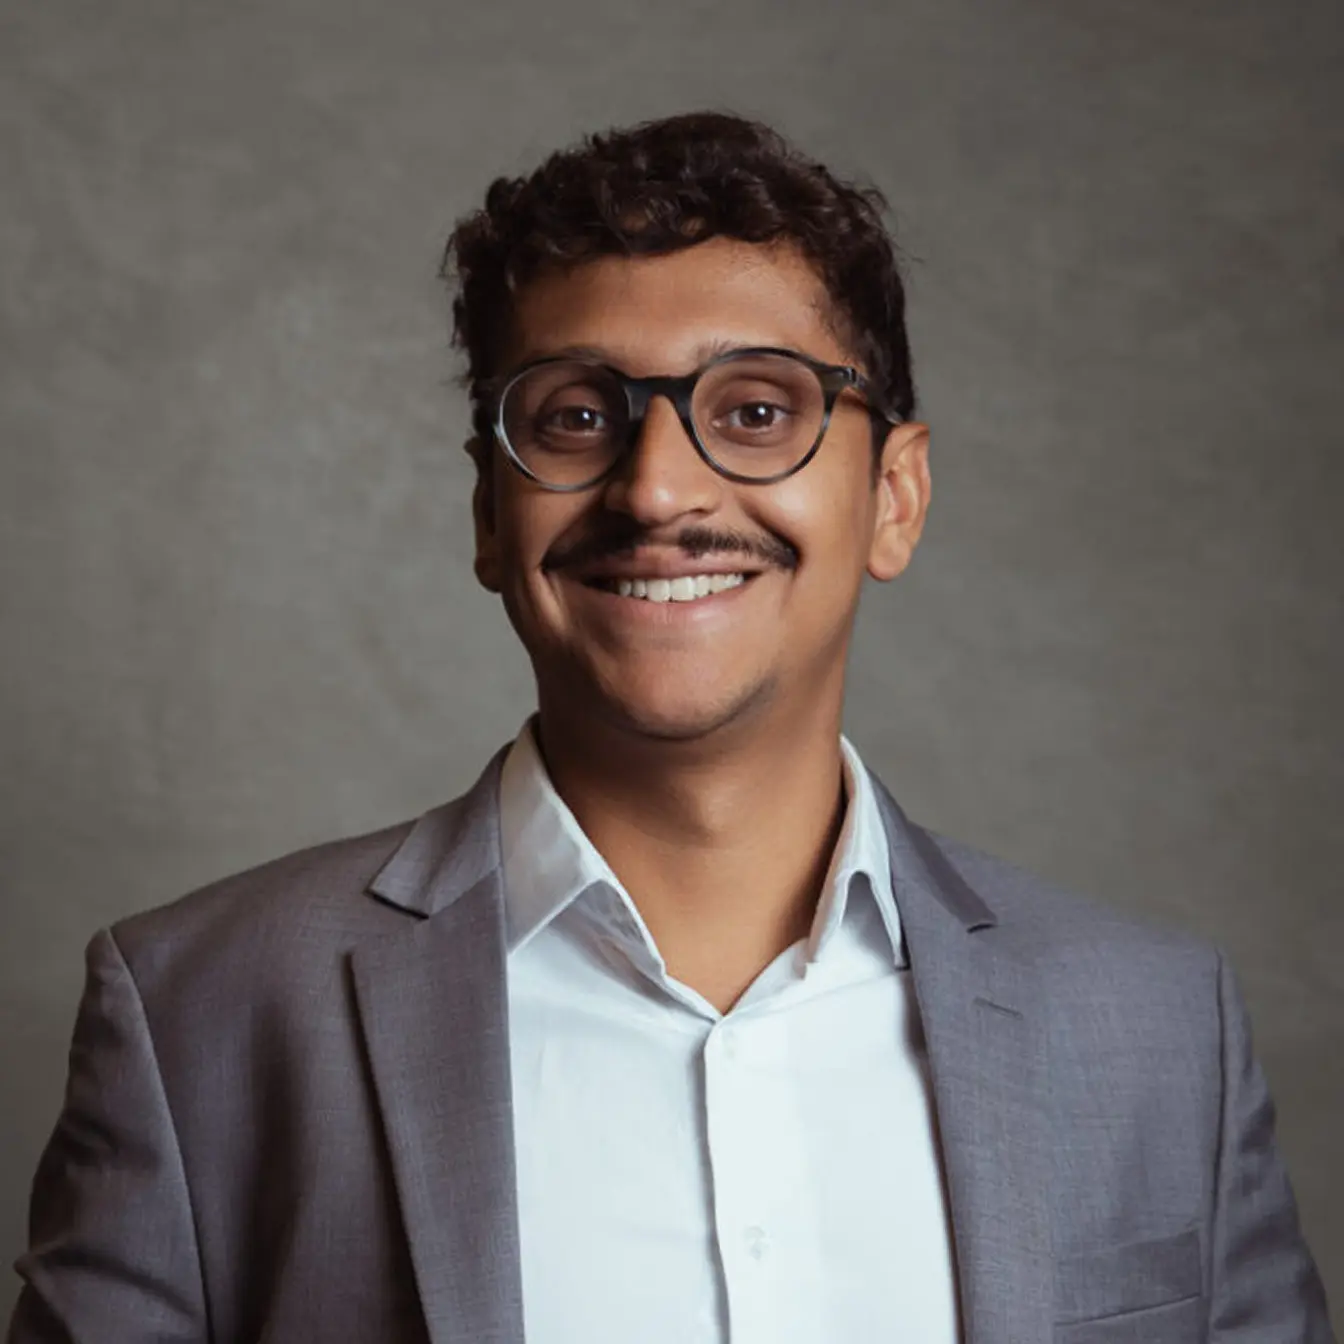
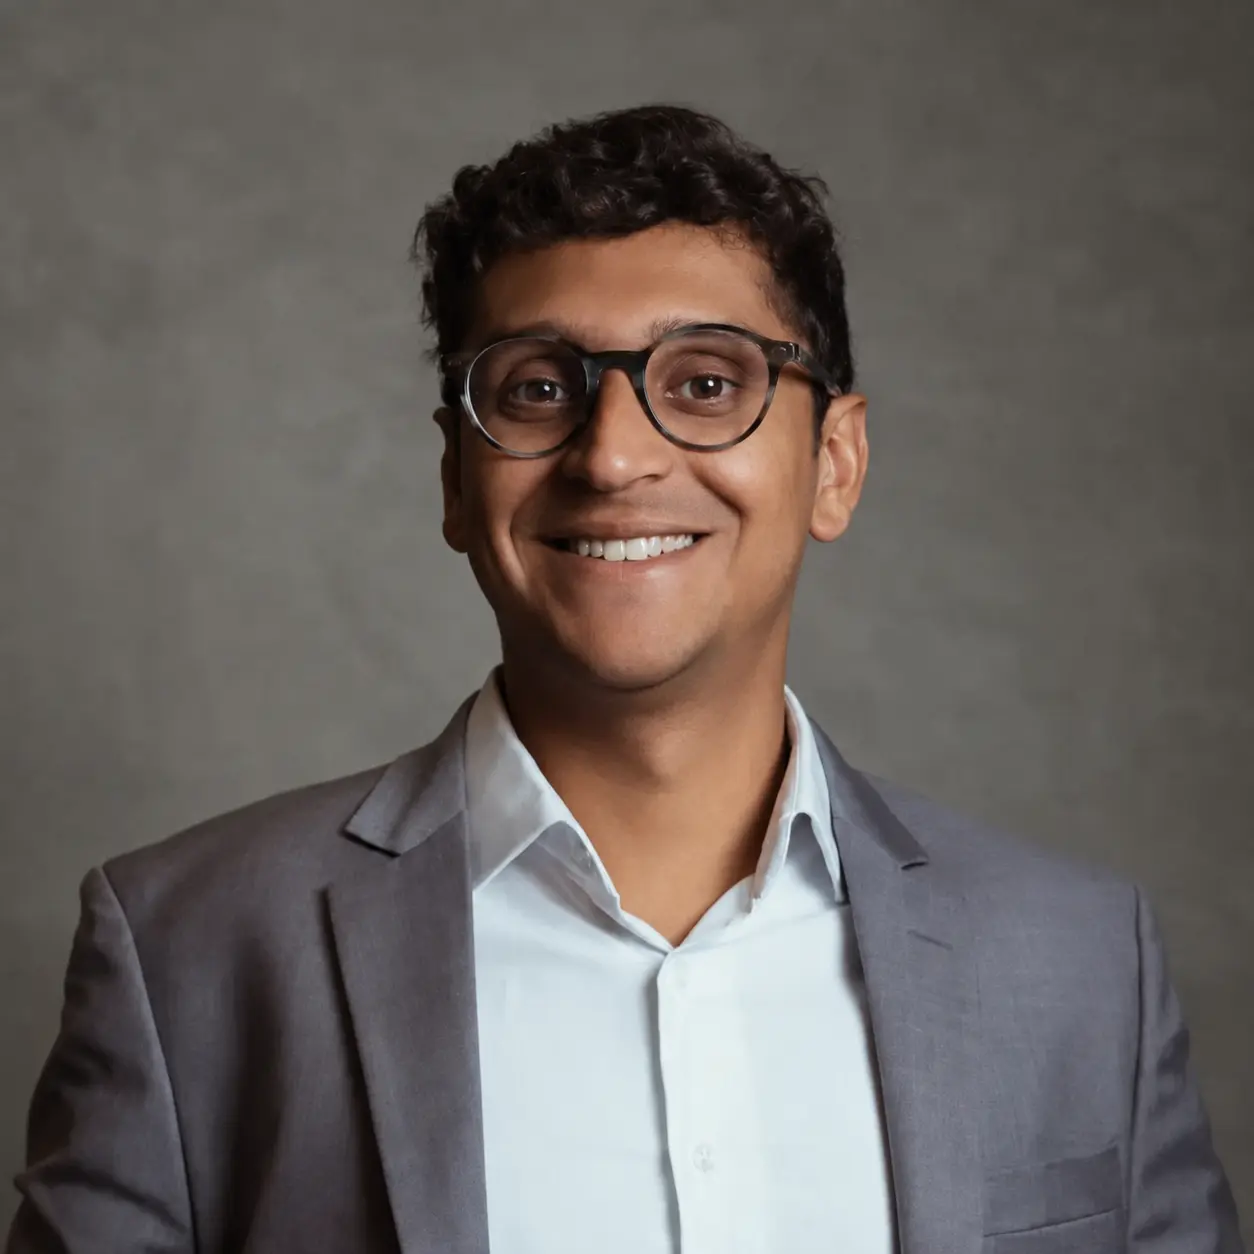
atualiza equipe, cases e endereco

Changed region(s): [[0.4043, 0.3732, 0.622, 0.4354]]

diff --git a/src/lib/team-data.ts b/src/lib/team-data.ts
@@ -216,5 +216,34 @@ He worked on the execution and origination of transactions in multiple sectors, 
     },
     linkedin: 'https://www.linkedin.com/in/gabriel-sales-de-oliveira/',
     email: 'gabriel.oliveira@goldencapital.com.br'
+  },
+  {
+    id: 'oscar',
+    name: {
+      pt: 'Oscar Papke',
+      en: 'Oscar Papke'
+    },
+    role: {
+      pt: 'Associate',
+      en: 'Associate'
+    },
+    photo: '/images/equipe/oscar-papke.webp',
+    companies: ['/images/logos/CréditAgricoleCIB_logo.svg'],
+    shortBio: {
+      pt: `Possui experiência no mercado financeiro, com atuação em análise e risco de crédito na área de Corporate & Investment Banking do Crédit Agricole CIB. Na instituição, concentrou-se na avaliação econômico-financeira de grandes contrapartes corporativas, subsidiárias de grupos multinacionais e empresas locais de grande porte.
+
+    Participou ativamente da estruturação de limites de crédito e da emissão de pareceres para operações de empréstimos sindicalizados (syndicated loans), operações bilaterais, fianças e estruturas de Project Finance e Acquisition Finance.`,
+      en: `Has experience in the financial market, with a focus on credit analysis and risk in Crédit Agricole CIB's Corporate & Investment Banking division. At the institution, focused on the financial analysis of large corporate counterparties, subsidiaries of multinational groups and large local companies.
+
+    Actively participated in the structuring of credit limits and the preparation of opinions for syndicated loans, bilateral transactions, guarantees, and Project Finance and Acquisition Finance structures.`
+    },
+    fullBio: {
+      pt: `Ao longo de sua trajetória, acompanhou clientes em setores estratégicos e intensivos em capital, incluindo Energia & Utilities, Metais & Mineração, Óleo & Gás, Agronegócio e Infraestrutura. Sua atuação combina a análise fundamentalista de demonstrações financeiras e capacidade de pagamento com proficiência em modelagem quantitativa e análise de cenários macroeconômicos e setoriais para comitês locais e internacionais de crédito.
+
+    É graduando em Administração de Empresas pela Faculdade de Economia, Administração, Contabilidade e Atuária da Universidade de São Paulo (FEA-USP) e integra o programa de duplo diploma de Mestrado em Gestão da Inovação pela Université Paris 1 Panthéon-Sorbonne.`,
+      en: `Throughout his career, he covered clients in strategic and capital-intensive sectors, including Energy & Utilities, Metals & Mining, Oil & Gas, Agribusiness and Infrastructure. His work combines fundamental analysis of financial statements and repayment capacity with proficiency in quantitative modeling and the analysis of macroeconomic and sector scenarios for local and international credit committees.
+
+    He is pursuing a Bachelor's degree in Business Administration at the Faculty of Economics, Administration, Accounting and Actuarial Sciences of the University of São Paulo (FEA-USP) and is enrolled in the double-degree Master's program in Innovation Management at Université Paris 1 Panthéon-Sorbonne.`
+    }
   }
 ];

diff --git a/src/lib/cases-data.ts b/src/lib/cases-data.ts
@@ -14,6 +14,32 @@ export interface CaseItem {
 
 export const casesData: CaseItem[] = [
   // Operações Selecionadas
+  {
+    id: 'silvio-santos-participacoes',
+    category: 'selected',
+    logo: '/images/cases/grupo-silvio-santos.webp',
+    name: 'Silvio Santos Participações Ltda',
+    value: 'R$ 440.500.000,00',
+    serviceType: 'Captação de Recursos | Liability Management',
+    description: {
+      pt: 'Assessoria na Captação de Recursos estruturados para as empresas do Grupo.',
+      en: 'Advisory in the raising of structured financing for the Group\'s companies.'
+    },
+    year: '2026'
+  },
+  {
+    id: 'projeto-phoenix',
+    category: 'selected',
+    logo: '/images/cases/projeto-phoenix.svg',
+    name: 'Projeto Phoenix',
+    value: 'R$ 410.000.000,00',
+    serviceType: 'Liability Management',
+    description: {
+      pt: 'Assessoria na Reestruturação de Passivos do Grupo',
+      en: 'Advisory in Group Liabilities Restructuring'
+    },
+    year: '2026'
+  },
     {
     id: 'fazendacajueira',
     category: 'selected',

diff --git a/src/app/contato/page.tsx b/src/app/contato/page.tsx
@@ -141,7 +141,7 @@ export default function ContatoPage() {
                 <p 
                   className={styles.introAddress}
                   dangerouslySetInnerHTML={{
-                    __html: dict.intro?.addressDetails || 'Edifício Offices | 3º andar - 316<br />São Paulo/SP - CEP 04538-132'
+                    __html: dict.intro?.addressDetails || 'Edifício Offices | 2º andar – 209 e 210<br />São Paulo/SP - CEP 04538-132'
                   }}
                 />
                 

diff --git a/src/components/ui/Footer/Footer.tsx b/src/components/ui/Footer/Footer.tsx
@@ -33,7 +33,7 @@ const Footer = () => {
         <div className={`${styles.footerItem} ${styles.address}`}>
           <p className={styles.addressText}>
             Av. Brigadeiro Faria Lima, 4300<br />
-            Edifício Offices | 3º andar – 316<br />
+            Edifício Offices | 2º andar – 209 e 210<br />
             São Paulo/SP – CEP 04538-132
           </p>
         </div>

diff --git a/src/lib/translations/pt.ts b/src/lib/translations/pt.ts
@@ -282,7 +282,7 @@ ContactPage: {
   intro: {
     title: "Entre em contato",
     address: "Av. Brigadeiro Faria Lima, 4300",
-    addressDetails: "Edifício Offices | 3º andar - 316\nSão Paulo/SP - CEP 04538-132",
+    addressDetails: "Edifício Offices | 2º andar – 209 e 210\nSão Paulo/SP - CEP 04538-132",
     phone: "+55 (11) 3842-8522"
   },
   form: {
